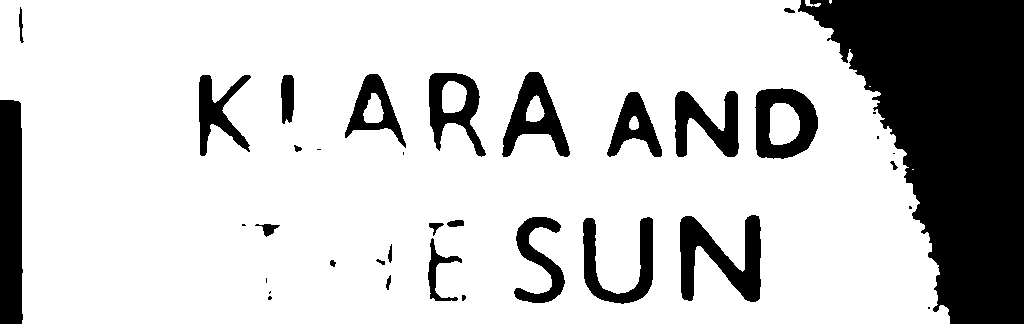
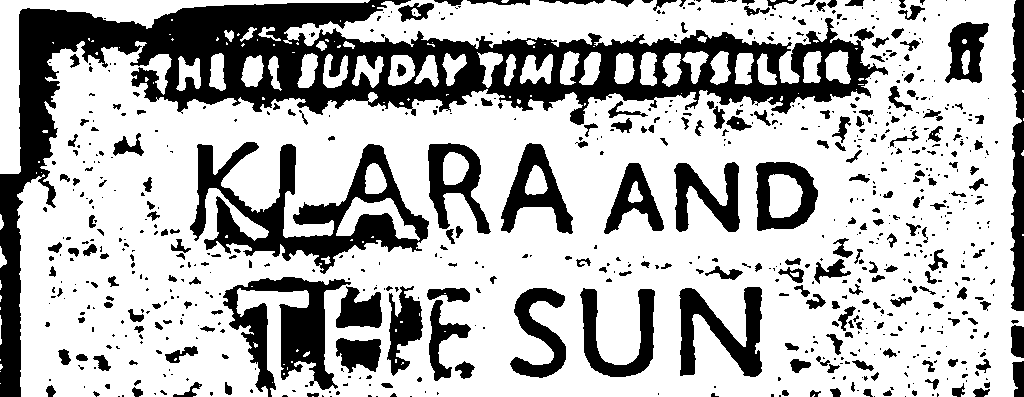
giving up with tesseract, switching to easyocr

diff --git a/backend/main.py b/backend/main.py
@@ -80,23 +80,28 @@ async def scan_books(file: UploadFile):
 
     h, w = image.shape[:2]
 
-    # crop middle region
-    image = image[int(h*0.45):int(h*0.9), int(w*0.1):int(w*0.9)]
+    image = image[int(h*0.35):int(h*0.9), int(w*0.1):int(w*0.9)]
 
-    # use red channel
-    b, g, r = cv2.split(image)
+    gray = cv2.cvtColor(image, cv2.COLOR_BGR2GRAY)
+    clahe = cv2.createCLAHE(clipLimit=2.0, tileGridSize=(8,8))
+    equalized = clahe.apply(gray)
 
-    # otsu threshold
-    blur = cv2.GaussianBlur(r, (5,5), 0)
-    _, thresh = cv2.threshold(blur, 0, 255, cv2.THRESH_BINARY + cv2.THRESH_OTSU)
+    thresh = cv2.adaptiveThreshold(
+        equalized, 
+        255,
+        cv2.ADAPTIVE_THRESH_GAUSSIAN_C,
+        cv2.THRESH_BINARY,
+        91, 
+        4)
 
-    cv2.imwrite('debug.png', thresh)
+    clean = cv2.medianBlur(thresh, 3)
 
-    text = pytesseract.image_to_string(thresh, 
+    cv2.imwrite('debug.png', clean)
+
+    text = pytesseract.image_to_string(clean, 
                                        lang='eng', 
-                                       config='--psm 6')
+                                       config='--psm 11')
 
-    
     print('OCR Raw:', text)
 
     cleaned_text = clean_ocr_text(text)
